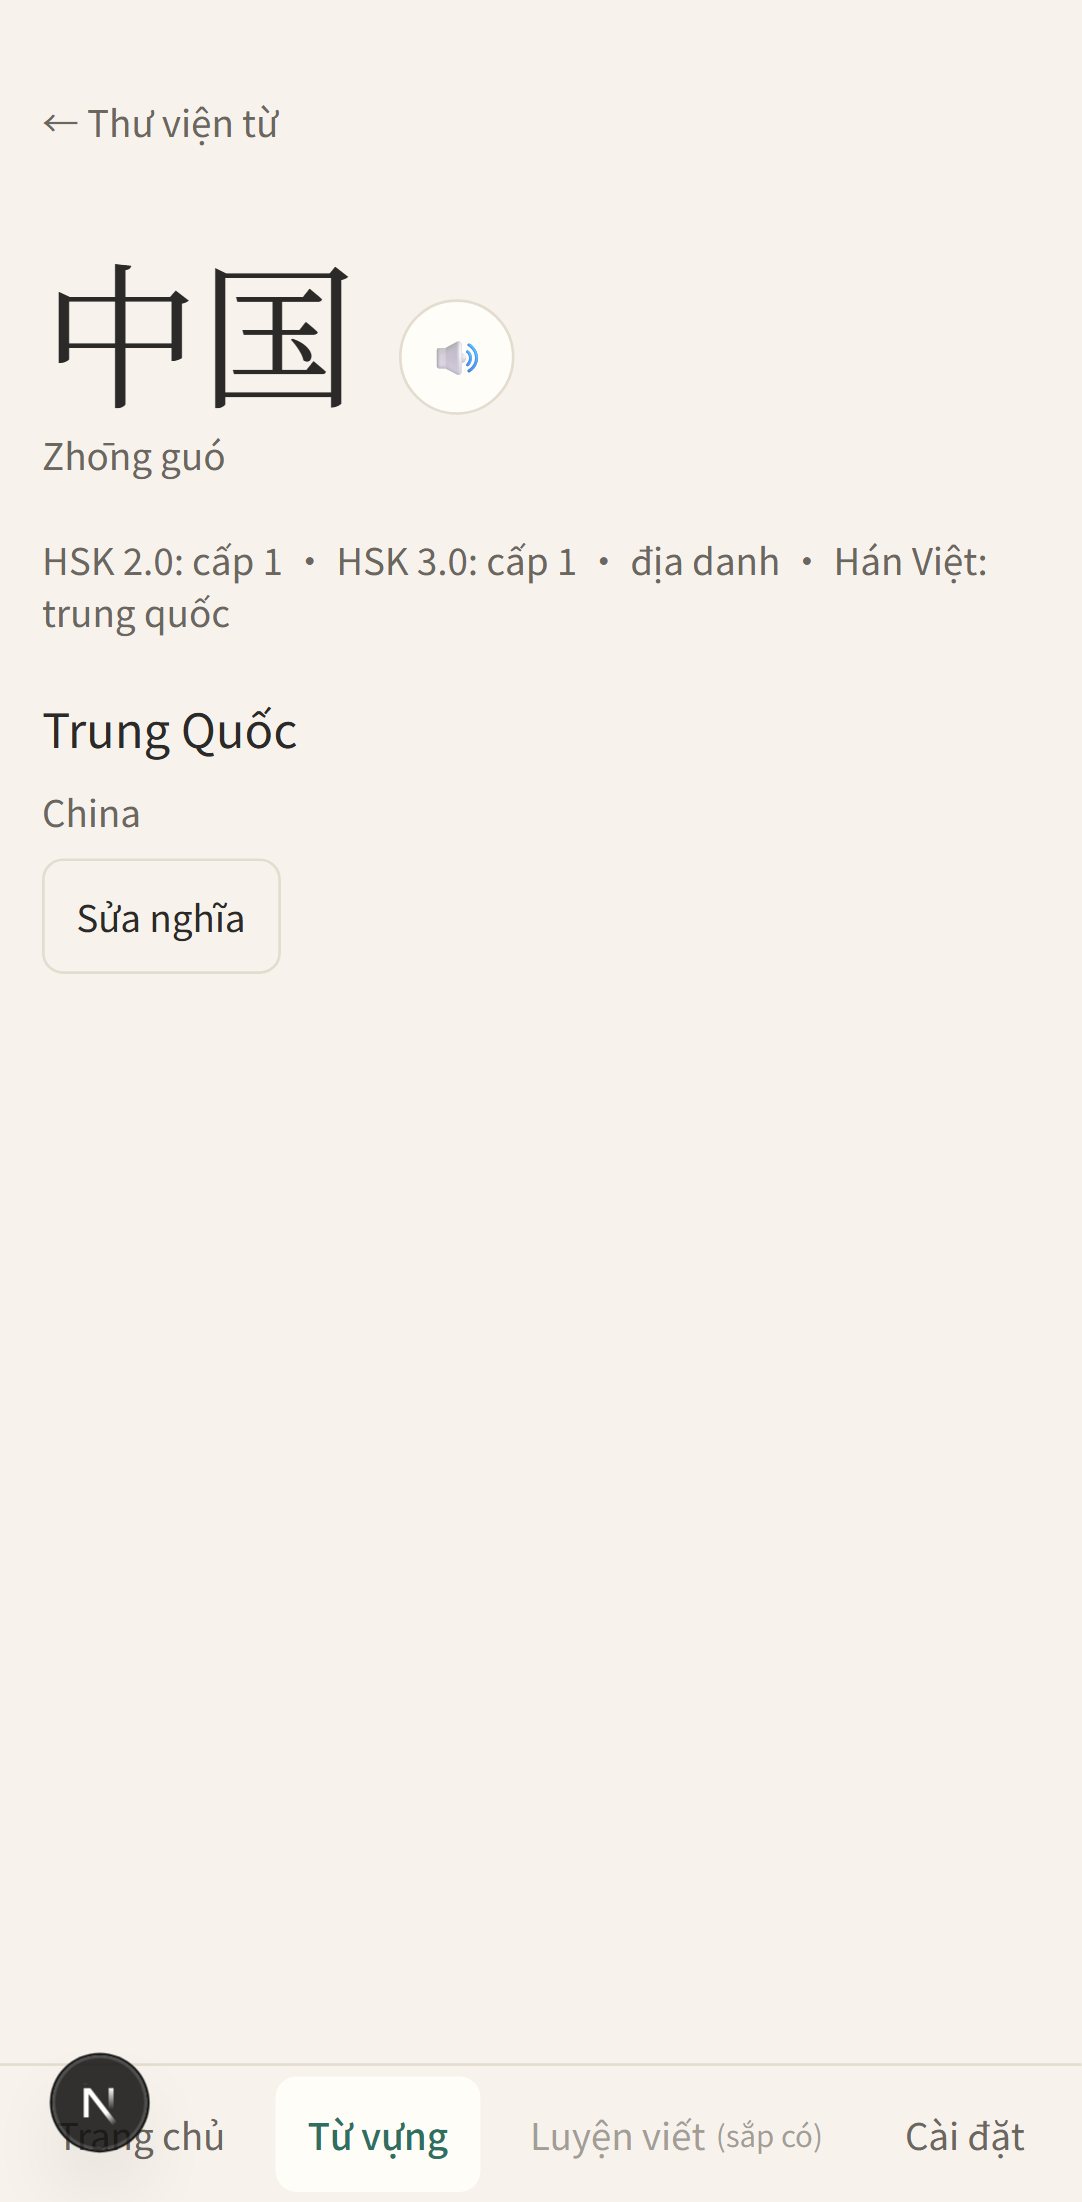
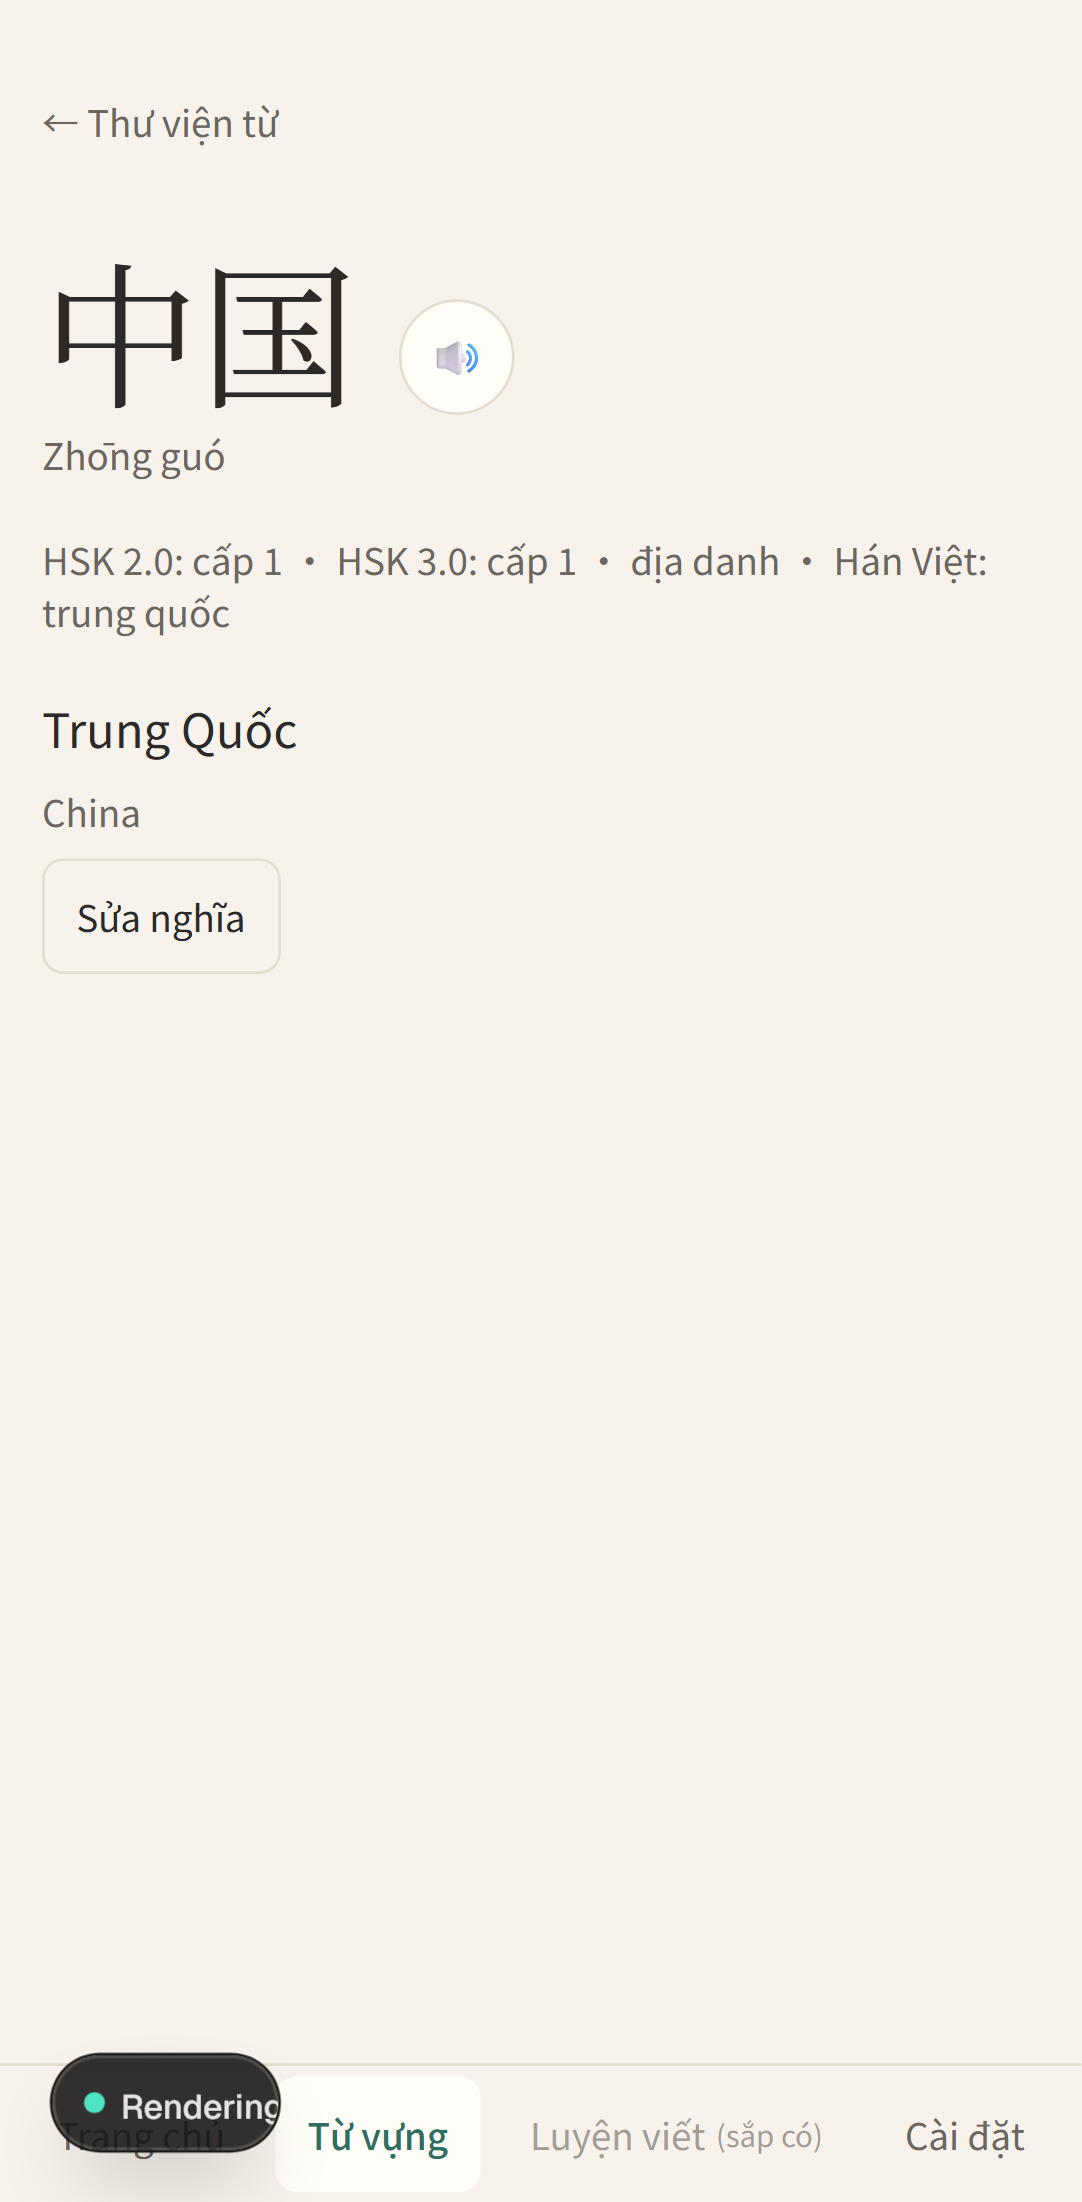
fix: harden backup import, SM-2 and queue after final review

Changed region(s): [[0.061, 0.9264, 0.2745, 0.9882]]

diff --git a/src/components/review/ReviewSession.tsx b/src/components/review/ReviewSession.tsx
@@ -23,6 +23,7 @@ export function ReviewSession({ onExit }: { onExit: () => void }) {
   const { storage, words, settings } = useApp();
   const [queue, setQueue] = useState<Word[] | null>(null);
   const [index, setIndex] = useState(0);
+  const [saveError, setSaveError] = useState(false);
   const [flipped, setFlipped] = useState(false);
   const [counts, setCounts] = useState<Record<Grade, number>>({
     again: 0,
@@ -56,22 +57,28 @@ export function ReviewSession({ onExit }: { onExit: () => void }) {
     async (g: Grade) => {
       if (!current || !flipped || busy.current) return;
       busy.current = true;
-      const now = Date.now();
+      try {
+        const now = Date.now();
       const before = (await storage.getCard(current.id)) ?? newCard(current.id, now);
-      const after = schedule(before, g, now);
-      await storage.putCard(after);
-      await storage.addReview({
-        cardId: current.id,
-        grade: g,
-        at: now,
-        prevIntervalDays: before.intervalDays,
-        nextIntervalDays: after.intervalDays,
-      });
-      setCounts((c) => ({ ...c, [g]: c[g] + 1 }));
-      if (g === "again") setQueue((q) => (q ? [...q, current] : q));
-      setIndex((i) => i + 1);
-      setFlipped(false);
-      busy.current = false;
+        const after = schedule(before, g, now);
+        await storage.putCard(after);
+        await storage.addReview({
+          cardId: current.id,
+          grade: g,
+          at: now,
+          prevIntervalDays: before.intervalDays,
+          nextIntervalDays: after.intervalDays,
+        });
+        setCounts((c) => ({ ...c, [g]: c[g] + 1 }));
+        if (g === "again") setQueue((q) => (q ? [...q, current] : q));
+        setIndex((i) => i + 1);
+        setFlipped(false);
+        setSaveError(false);
+      } catch {
+        setSaveError(true);
+      } finally {
+        busy.current = false;
+      }
     },
     [current, flipped, storage],
   );
@@ -116,6 +123,11 @@ export function ReviewSession({ onExit }: { onExit: () => void }) {
       {current ? (
         <div className="space-y-4">
           <Flashcard word={current} flipped={flipped} onFlip={() => setFlipped(true)} />
+          {saveError && (
+            <p role="alert" className="text-center text-warn">
+              Không lưu được kết quả. Hãy thử chấm lại.
+            </p>
+          )}
           {flipped && (
             <div className="grid grid-cols-4 gap-2" role="group" aria-label="Chấm mức nhớ">
               {BUTTONS.map((b) => (

diff --git a/src/components/SettingsForm.tsx b/src/components/SettingsForm.tsx
@@ -8,7 +8,7 @@ import { downloadBackup, importBackupText } from "@/lib/backup";
 const field = "min-h-11 rounded-lg border border-line bg-surface px-3";
 
 export function SettingsForm() {
-  const { storage, settings, setSettings } = useApp();
+  const { storage, settings, setSettings, refresh } = useApp();
   const [message, setMessage] = useState<{ ok: boolean; text: string } | null>(null);
 
   async function onImport(file: File | undefined) {
@@ -16,7 +16,8 @@ export function SettingsForm() {
     if (!window.confirm("Khôi phục sẽ ghi đè toàn bộ tiến độ hiện tại. Bạn chắc chắn chứ?")) return;
     try {
       await importBackupText(storage, await file.text());
-      window.location.reload();
+      await refresh();
+      setMessage({ ok: true, text: "Đã khôi phục dữ liệu từ tệp sao lưu." });
     } catch (e) {
       setMessage({ ok: false, text: e instanceof Error ? e.message : "Không khôi phục được." });
     }
@@ -118,7 +119,7 @@ export function SettingsForm() {
           >
             Tải bản sao lưu
           </button>
-          <label className="inline-flex min-h-11 cursor-pointer items-center rounded-lg border border-line bg-surface px-4">
+          <label className="inline-flex min-h-11 cursor-pointer items-center rounded-lg border border-line bg-surface px-4 focus-within:outline-2 focus-within:outline-offset-2 focus-within:outline-accent">
             Khôi phục từ tệp
             <input
               type="file"

diff --git a/src/lib/storage/storage.test.ts b/src/lib/storage/storage.test.ts
@@ -1,3 +1,4 @@
+/* eslint-disable @typescript-eslint/no-explicit-any -- hostile-input fixtures */
 import "fake-indexeddb/auto";
 import { describe, expect, it } from "vitest";
 import { DexieStorage } from "./dexie-storage";
@@ -72,6 +73,24 @@ describe.each(impls)("%s", (_name, make) => {
     await s.putCard(card("keep", 100));
     await expect(s.importAll({ version: 99 })).rejects.toThrow();
     await expect(s.importAll("not json")).rejects.toThrow();
+    expect(await s.getCard("keep")).toEqual(card("keep", 100));
+  });
+});
+
+describe.each(impls)("%s backup validation rejects values that would break the app", (_name, make) => {
+  const valid = async () => ({ ...(await make().exportAll()) });
+  it.each([
+    ["fontScale 0", (b: Record<string, any>) => (b.settings.fontScale = 0)],
+    ["sessionLimit 0", (b: Record<string, any>) => (b.settings.sessionLimit = 0)],
+    ["negative ease", (b: Record<string, any>) => b.cards.push({ id: "x", ease: -1, intervalDays: 1, reps: 1, lapses: 0, due: 1 })],
+    ["null meaningEn edit", (b: Record<string, any>) => (b.edits = { a: { meaningEn: null } })],
+    ["numeric hanzi edit", (b: Record<string, any>) => (b.edits = { a: { hanzi: 5 } })],
+  ])("%s", async (_n, mutate) => {
+    const s = make();
+    await s.putCard(card("keep", 100));
+    const b: Record<string, any> = await valid();
+    mutate(b);
+    await expect(s.importAll(b)).rejects.toThrow();
     expect(await s.getCard("keep")).toEqual(card("keep", 100));
   });
 });

diff --git a/src/lib/storage/backup-schema.ts b/src/lib/storage/backup-schema.ts
@@ -1,4 +1,5 @@
 import { z } from "zod";
+import { WordShape } from "@/lib/content/schema";
 import type { BackupV1 } from "./types";
 
 const grade = z.enum(["again", "hard", "good", "easy"]);
@@ -9,10 +10,10 @@ const BackupSchema = z.object({
   cards: z.array(
     z.object({
       id: z.string(),
-      ease: z.number(),
-      intervalDays: z.number(),
-      reps: z.number(),
-      lapses: z.number(),
+      ease: z.number().min(1.3).max(10),
+      intervalDays: z.number().min(0),
+      reps: z.number().int().min(0),
+      lapses: z.number().int().min(0),
       due: z.number(),
     }),
   ),
@@ -27,13 +28,13 @@ const BackupSchema = z.object({
   ),
   settings: z.object({
     hskVersion: z.enum(["2.0", "3.0"]),
-    dailyNewLimit: z.number(),
-    sessionLimit: z.number(),
+    dailyNewLimit: z.number().int().min(0).max(1000),
+    sessionLimit: z.number().int().min(1).max(1000),
     theme: z.enum(["light", "dark", "system"]),
-    fontScale: z.number(),
+    fontScale: z.number().min(0.5).max(2),
     lastBackupAt: z.number().nullable(),
   }),
-  edits: z.record(z.string(), z.record(z.string(), z.unknown())),
+  edits: z.record(z.string(), WordShape.partial().omit({ id: true })),
 });
 
 /** Throws a readable error when `raw` is not a valid version-1 backup. */

diff --git a/src/lib/content/schema.ts b/src/lib/content/schema.ts
@@ -1,19 +1,20 @@
 import { z } from "zod";
 
-export const WordSchema = z
-  .object({
-    id: z.string().min(1),
-    hanzi: z.string().min(1),
-    pinyin: z.string().min(1),
-    pos: z.array(z.string()),
-    meaningVi: z.string(),
-    meaningEn: z.array(z.string()),
-    hanViet: z.string().optional(),
-    example: z.object({ zh: z.string(), pinyin: z.string(), vi: z.string() }).optional(),
-    hsk2: z.number().int().min(1).max(6).nullable(),
-    hsk3: z.number().int().min(1).max(9).nullable(),
-    reviewed: z.boolean(),
-  })
+export const WordShape = z.object({
+  id: z.string().min(1),
+  hanzi: z.string().min(1),
+  pinyin: z.string().min(1),
+  pos: z.array(z.string()),
+  meaningVi: z.string(),
+  meaningEn: z.array(z.string()),
+  hanViet: z.string().optional(),
+  example: z.object({ zh: z.string(), pinyin: z.string(), vi: z.string() }).optional(),
+  hsk2: z.number().int().min(1).max(6).nullable(),
+  hsk3: z.number().int().min(1).max(9).nullable(),
+  reviewed: z.boolean(),
+});
+
+export const WordSchema = WordShape
   .refine((w) => w.hsk2 !== null || w.hsk3 !== null, {
     message: "word must belong to HSK 2.0 or 3.0",
   })

diff --git a/src/lib/app-context.tsx b/src/lib/app-context.tsx
@@ -16,6 +16,8 @@ interface AppState {
   /** Every word of both versions, with edits applied. */
   allWords: Word[];
   saveEdit: (id: string, patch: Partial<Word>) => Promise<void>;
+  /** Re-reads settings and edits from storage, e.g. after restoring a backup. */
+  refresh: () => Promise<void>;
   isEphemeral: boolean;
 }
 
@@ -70,6 +72,12 @@ export function AppProvider({
     [ready],
   );
 
+  const refresh = useCallback(async () => {
+    if (!ready) return;
+    const [settings, backup] = await Promise.all([ready.storage.getSettings(), ready.storage.exportAll()]);
+    setReady({ ...ready, settings, edits: backup.edits });
+  }, [ready]);
+
   const saveEdit = useCallback(
     async (id: string, patch: Partial<Word>) => {
       if (!ready) return;
@@ -90,9 +98,10 @@ export function AppProvider({
       allWords,
       words: wordsFor(allWords, ready.settings.hskVersion),
       saveEdit,
+      refresh,
       isEphemeral: ready.isEphemeral,
     };
-  }, [ready, words, setSettings, saveEdit]);
+  }, [ready, words, setSettings, saveEdit, refresh]);
 
   if (!value) {
     return (

diff --git a/src/lib/srs/queue.test.ts b/src/lib/srs/queue.test.ts
@@ -43,6 +43,18 @@ describe("buildQueue", () => {
     expect(q.map((x) => x.id)).toEqual(["a"]);
   });
 
+  it("includes cards due later today, not only those already due this minute", async () => {
+    const morning = new Date(2026, 10, 18, 8, 0).getTime();
+    const evening = new Date(2026, 10, 18, 21, 0).getTime();
+    const tomorrow = new Date(2026, 10, 19, 0, 30).getTime();
+    const s = new MemoryStorage();
+    await s.putCard({ id: "late", ease: 2.5, intervalDays: 1, reps: 1, lapses: 0, due: evening });
+    await s.putCard({ id: "next", ease: 2.5, intervalDays: 1, reps: 1, lapses: 0, due: tomorrow });
+    const list = [w("late", 1), w("next", 1)];
+    const q = await buildQueue(s, list, morning, { hskVersion: "2.0", dailyNewLimit: 0, sessionLimit: 10, newToday: 0 });
+    expect(q.map((x) => x.id)).toEqual(["late"]);
+  });
+
   it("returns an empty queue when there is nothing to study", async () => {
     expect(await buildQueue(new MemoryStorage(), [], NOW, opts)).toEqual([]);
   });

diff --git a/src/lib/app-context.test.tsx b/src/lib/app-context.test.tsx
@@ -42,4 +42,22 @@ describe("AppProvider", () => {
     await waitFor(() => expect(screen.getByText("3.0|-|false")).toBeInTheDocument());
     expect(await storage.getCard("a")).toBeDefined();
   });
+
+  it("refresh() picks up data restored into storage", async () => {
+    const storage = new MemoryStorage();
+    function Btn() {
+      const { refresh } = useApp();
+      return <button onClick={() => refresh()}>r</button>;
+    }
+    render(
+      <AppProvider words={words} load={async () => ({ storage, isEphemeral: true })}>
+        <Probe />
+        <Btn />
+      </AppProvider>,
+    );
+    await screen.findByText("2.0|gốc|true");
+    await storage.putSettings({ hskVersion: "3.0" });
+    screen.getByText("r").click();
+    await waitFor(() => expect(screen.getByText(/^3\.0\|/)).toBeInTheDocument());
+  });
 });

diff --git a/src/components/review/ReviewSession.test.tsx b/src/components/review/ReviewSession.test.tsx
@@ -43,6 +43,19 @@ describe("ReviewSession", () => {
     expect(await screen.findByText("人")).toBeInTheDocument();
   });
 
+  it("keeps working after a failed save instead of freezing", async () => {
+    setup();
+    await screen.findByText("爱");
+    const spy = vi.spyOn(storage, "putCard").mockRejectedValueOnce(new Error("quota"));
+    await userEvent.keyboard(" ");
+    await userEvent.keyboard("3");
+    expect(await screen.findByRole("alert")).toHaveTextContent(/không lưu được/i);
+    spy.mockRestore();
+    await userEvent.keyboard(" ");
+    await userEvent.keyboard("3");
+    expect(await screen.findByText("人")).toBeInTheDocument();
+  });
+
   it("ignores grade keys until the card is flipped", async () => {
     setup();
     await screen.findByText("爱");

diff --git a/src/lib/srs/sm2.test.ts b/src/lib/srs/sm2.test.ts
@@ -51,6 +51,13 @@ describe("schedule", () => {
     expect(schedule(newCard("b", NOW), "easy", NOW).intervalDays).toBe(4);
   });
 
+  it("easy is never sooner than good, also right after the first review", () => {
+    const afterFirst = schedule(newCard("a", NOW), "good", NOW);
+    const good = schedule(afterFirst, "good", NOW);
+    const easy = schedule(afterFirst, "easy", NOW);
+    expect(easy.intervalDays).toBeGreaterThanOrEqual(good.intervalDays);
+  });
+
   it("does not mutate the input state", () => {
     const card = newCard("a", NOW);
     const copy = { ...card };

diff --git a/src/lib/srs/queue.ts b/src/lib/srs/queue.ts
@@ -25,7 +25,9 @@ export async function buildQueue(
   opts: QueueOptions,
 ): Promise<Word[]> {
   const byId = new Map(words.map((w) => [w.id, w]));
-  const dueCards = await storage.listDue(now, Number.MAX_SAFE_INTEGER);
+  // "Due today" means due any time before local midnight, so evening reviews show up the next morning.
+  const endOfDay = new Date(now).setHours(23, 59, 59, 999);
+  const dueCards = await storage.listDue(endOfDay, Number.MAX_SAFE_INTEGER);
   const due = dueCards
     .map((c) => byId.get(c.id))
     .filter((w): w is Word => w !== undefined)

diff --git a/src/lib/srs/sm2.ts b/src/lib/srs/sm2.ts
@@ -26,7 +26,12 @@ export function schedule(state: CardState, grade: Grade, now: number): CardState
     intervalDays = Math.max(1, Math.round(state.intervalDays * 1.2));
     ease = Math.max(MIN_EASE, ease - 0.15);
   } else if (grade === "easy") {
-    intervalDays = state.reps === 0 ? 4 : Math.round(state.intervalDays * state.ease * 1.3);
+    intervalDays =
+      state.reps === 0
+        ? 4
+        : state.reps === 1
+          ? 8
+          : Math.round(state.intervalDays * state.ease * 1.3);
     ease += 0.15;
   } else {
     intervalDays =
